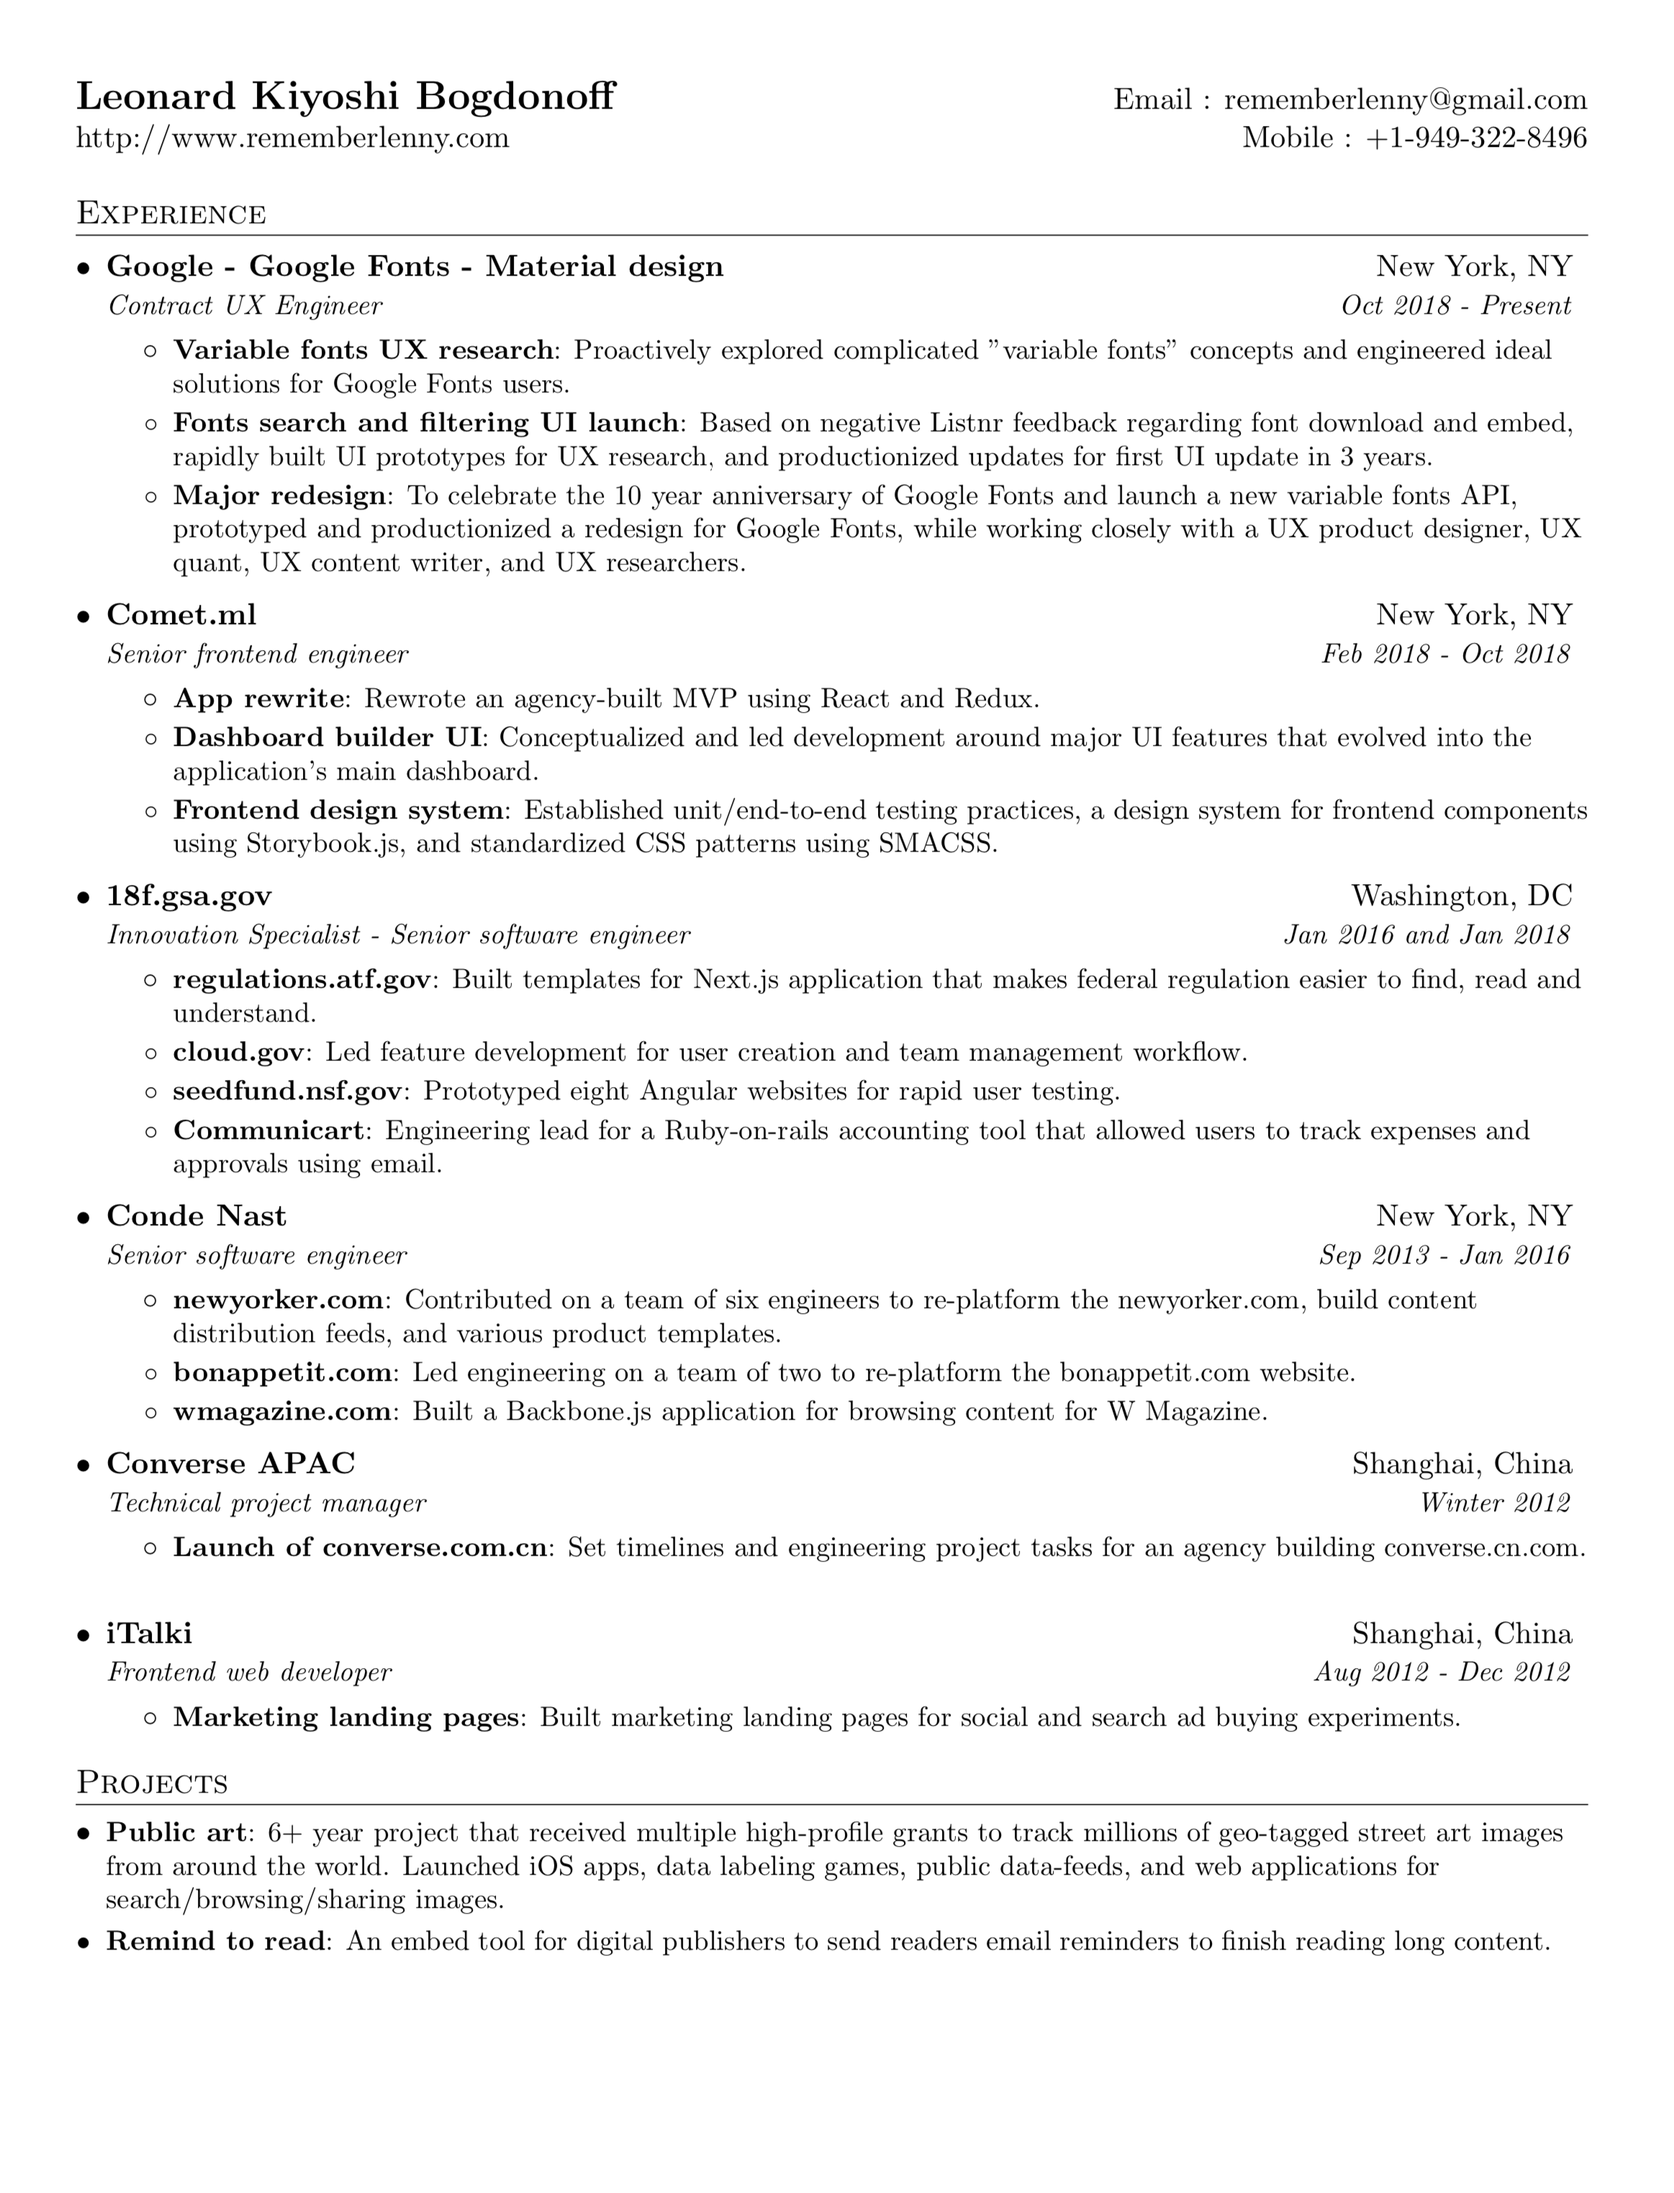
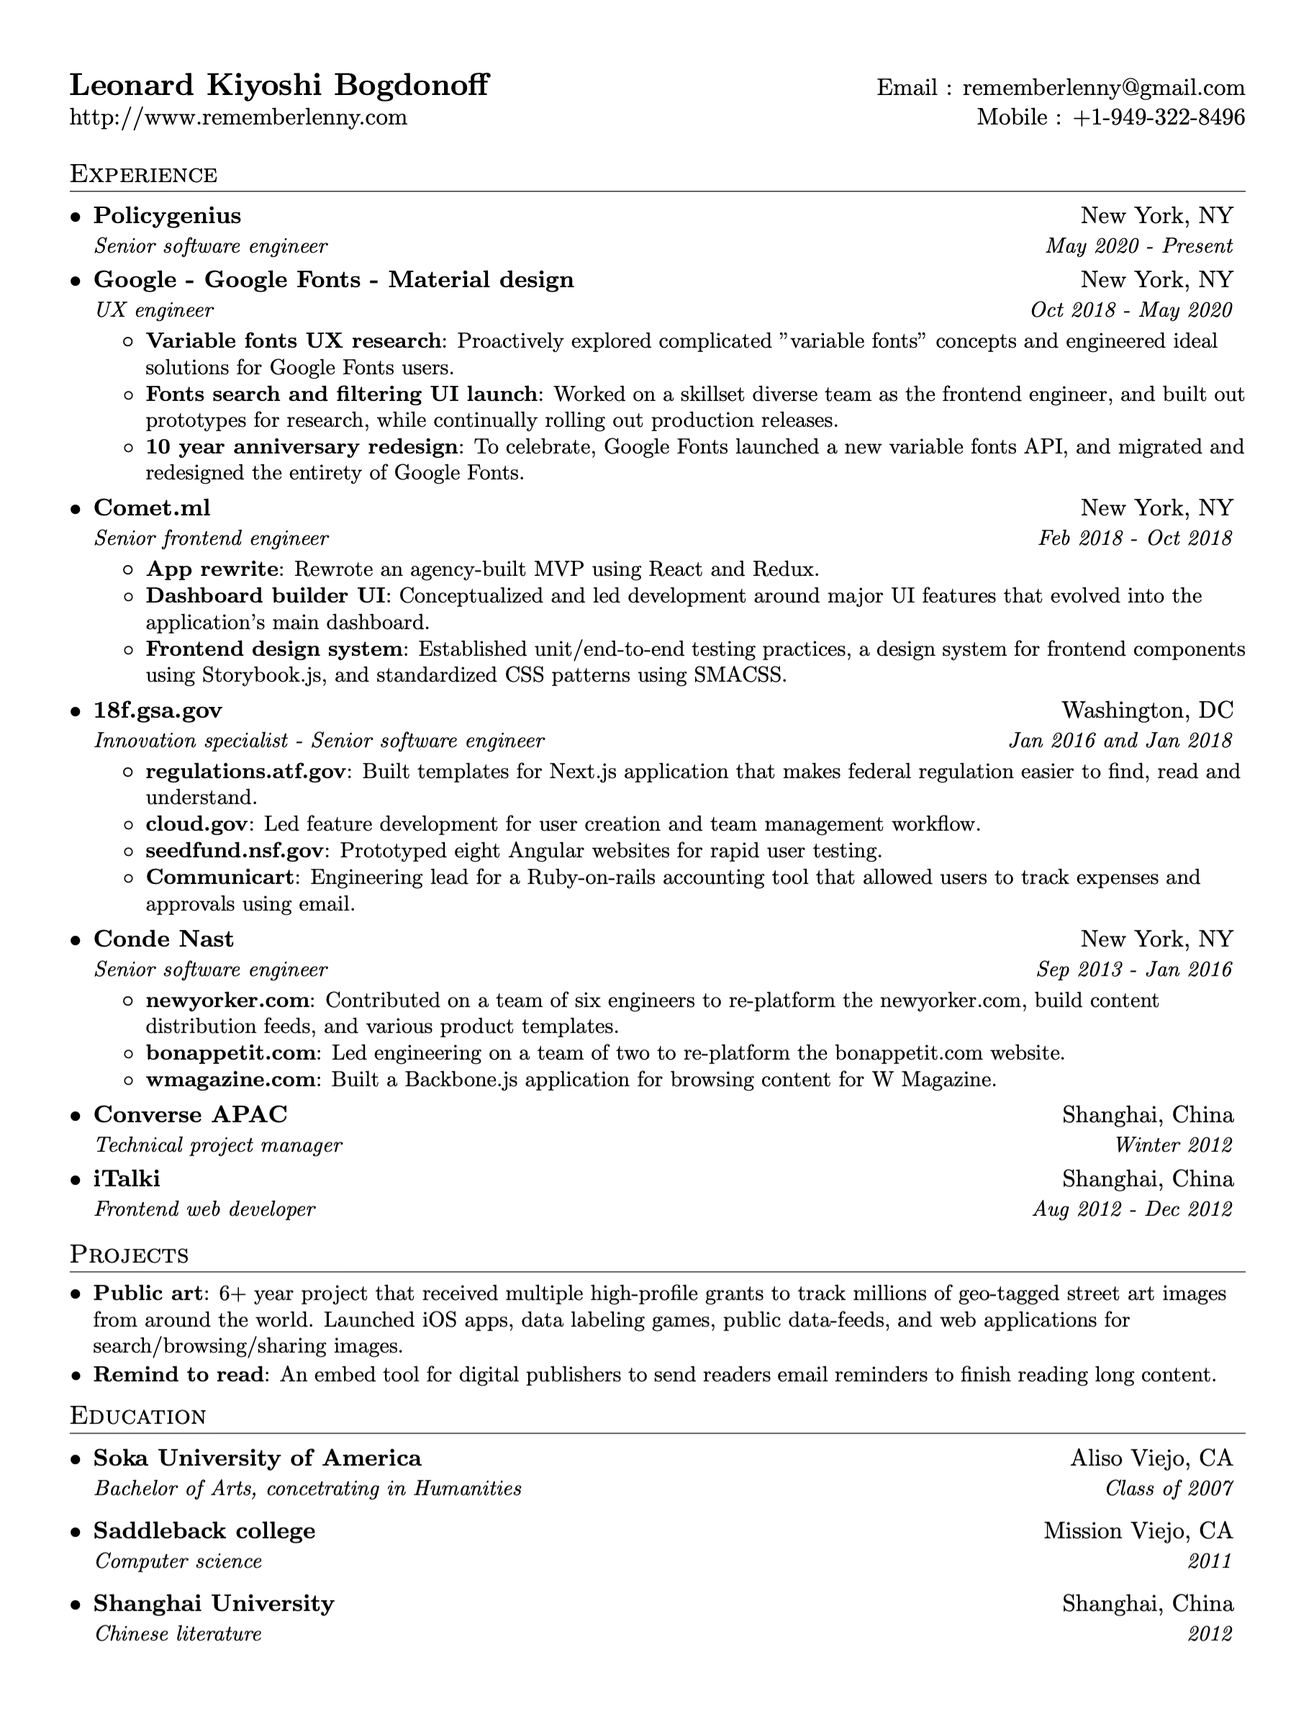
Save updated resume

diff --git a/leonard_bogdonoff_resume.tex b/leonard_bogdonoff_resume.tex
@@ -90,15 +90,19 @@
   \resumeSubHeadingListStart
 
     \resumeSubheading
+      {Policygenius}{New York, NY}
+      {Senior software engineer}{May 2020 - Present}
+
+    \resumeSubheading
       {Google - Google Fonts - Material design}{New York, NY}
-      {Contract UX Engineer}{Oct 2018 - Present}
+      {UX engineer}{Oct 2018 - May 2020}
       \resumeItemListStart
         \resumeItem{Variable fonts UX research}
           {Proactively explored complicated "variable fonts" concepts and engineered ideal solutions for Google Fonts users.}
         \resumeItem{Fonts search and filtering UI launch}
-          {Based on negative Listnr feedback regarding font download and embed, rapidly built UI prototypes for UX research, and productionized updates for first UI update in 3 years.}
-        \resumeItem{Major redesign}
-          {To celebrate the 10 year anniversary of Google Fonts and launch a new variable fonts API, prototyped and productionized a redesign for Google Fonts, while working closely with a UX product designer, UX quant, UX content writer, and UX researchers.}
+          {Worked on a skillset diverse team as the frontend engineer, and built out prototypes for research, while continually rolling out production releases. }
+        \resumeItem{10 year anniversary redesign}
+          {To celebrate, Google Fonts launched a new variable fonts API, and migrated and redesigned the entirety of Google Fonts.}
       \resumeItemListEnd
 
     \resumeSubheading
@@ -115,7 +119,7 @@
 
     \resumeSubheading
       {18f.gsa.gov}{Washington, DC}
-      {Innovation Specialist - Senior software engineer}{Jan 2016 and Jan 2018}
+      {Innovation specialist - Senior software engineer}{Jan 2016 and Jan 2018}
       \resumeItemListStart
         \resumeItem{regulations.atf.gov}
           {Built templates for Next.js application that makes federal regulation easier to find, read and understand.}
@@ -143,18 +147,12 @@
     \resumeSubheading
       {Converse APAC}{Shanghai, China}
       {Technical project manager}{Winter 2012}
-      \resumeItemListStart
-        \resumeItem{Launch of converse.com.cn}
-          {Set timelines and engineering project tasks for an agency building converse.cn.com.}
-      \resumeItemListEnd
+
 
     \resumeSubheading
       {iTalki}{Shanghai, China}
       {Frontend web developer}{Aug 2012 - Dec 2012}
-      \resumeItemListStart
-        \resumeItem{Marketing landing pages}
-          {Built marketing landing pages for social and search ad buying experiments.}
-      \resumeItemListEnd
+
 
   \resumeSubHeadingListEnd
 
